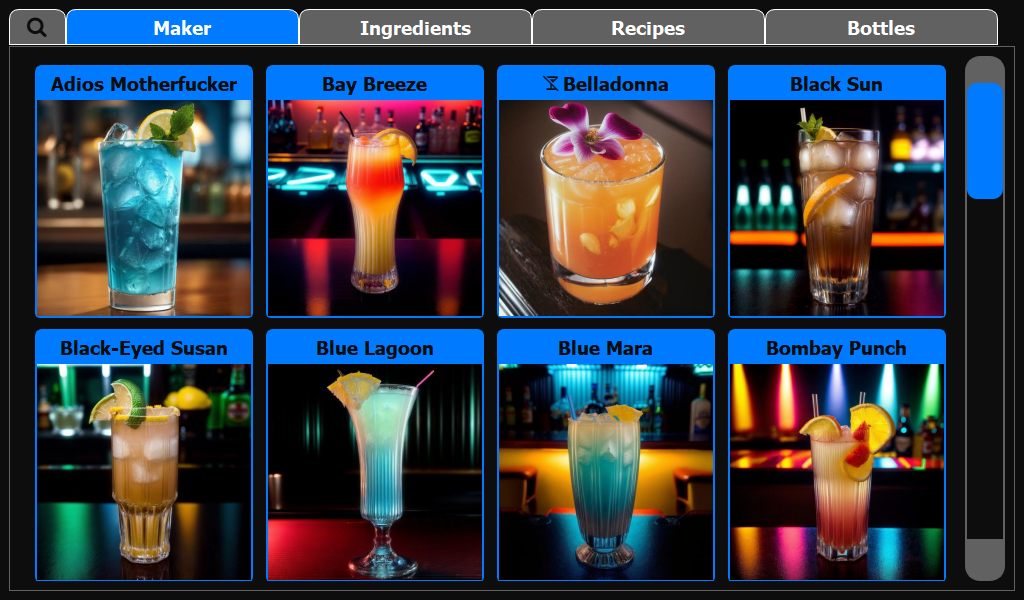
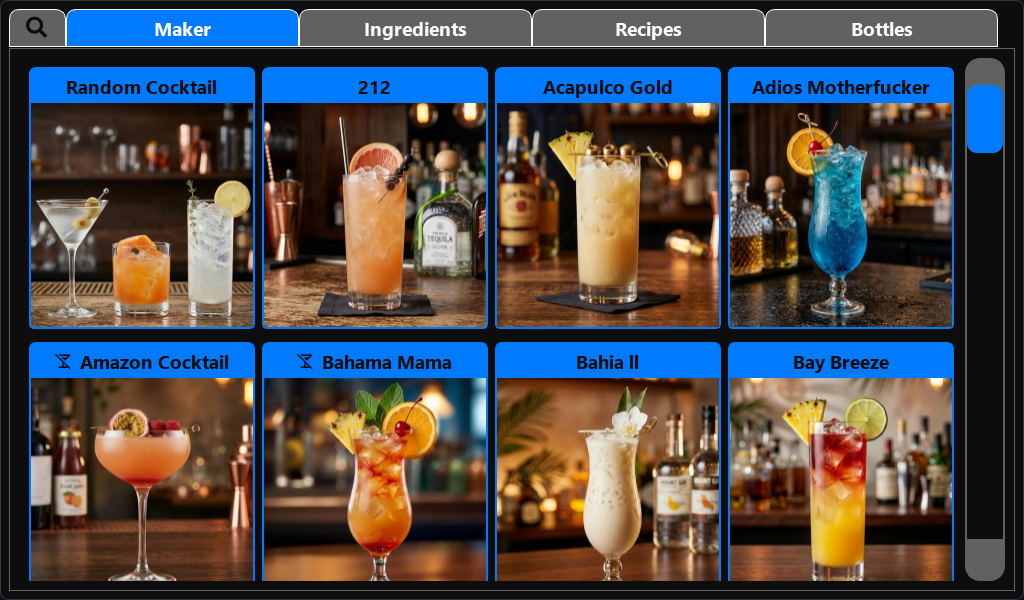
Merge pull request #656 from AndreWohnsland/dev
Update docs for images and features

Pull request: Update docs for images and features

diff --git a/tests/test_hand_add_flow.py b/tests/test_hand_add_flow.py
@@ -10,12 +10,12 @@ import pytest
 
 from src.config.config_manager import CONFIG, shared
 from src.config.errors import ConfigError
-from src.models import Cocktail, HandAddMeasure, Ingredient, PrepareResult, PreparationResult
+from src.models import Cocktail, HandAddMeasure, Ingredient, PreparationResult, PrepareResult
 
 
-def _ingredient(id: int, name: str, *, bottle: int | None, amount: int, unit: str = "ml") -> Ingredient:
+def _ingredient(_id: int, name: str, *, bottle: int | None, amount: int, unit: str = "ml") -> Ingredient:
     return Ingredient(
-        id=id,
+        id=_id,
         name=name,
         alcohol=0,
         bottle_volume=1000,

diff --git a/tests/migration/test_role_migration.py b/tests/migration/test_role_migration.py
@@ -74,8 +74,7 @@ def v3_database(tmp_path: Path, monkeypatch: pytest.MonkeyPatch) -> Generator[Pa
         )
         cur.execute("INSERT INTO Recipes (Name) VALUES ('Test Cocktail');")
         cur.executemany(
-            "INSERT INTO WaiterLog (Timestamp, Waiter_NFC_ID, Recipe_ID, Volume, Is_Virgin) "
-            "VALUES (?, ?, ?, ?, ?);",
+            "INSERT INTO WaiterLog (Timestamp, Waiter_NFC_ID, Recipe_ID, Volume, Is_Virgin) VALUES (?, ?, ?, ?, ?);",
             [
                 ("2025-01-01 10:00:00", "nfc_001", 1, 250, 0),
                 ("2025-01-01 11:00:00", "nfc_002", 1, 300, 0),

diff --git a/docs/features.md b/docs/features.md
@@ -7,6 +7,8 @@ Usually, updating to the latest version is always a good idea.
 
 | Version     | Feature Description                                                                                                  |
 | :---------- | :------------------------------------------------------------------------------------------------------------------- |
+| **v4.6.0**  | Scale guided hand add process                                                                                        |
+| **v4.5.0**  | Greatly improve cocktail images                                                                                      |
 | **v4.4.0**  | Add virtual keyboard option to v2                                                                                    |
 | **v4.3.0**  | Add motorkit dispenser                                                                                               |
 | **v4.2.0**  | Add v1 Portrait Mode                                                                                                 |